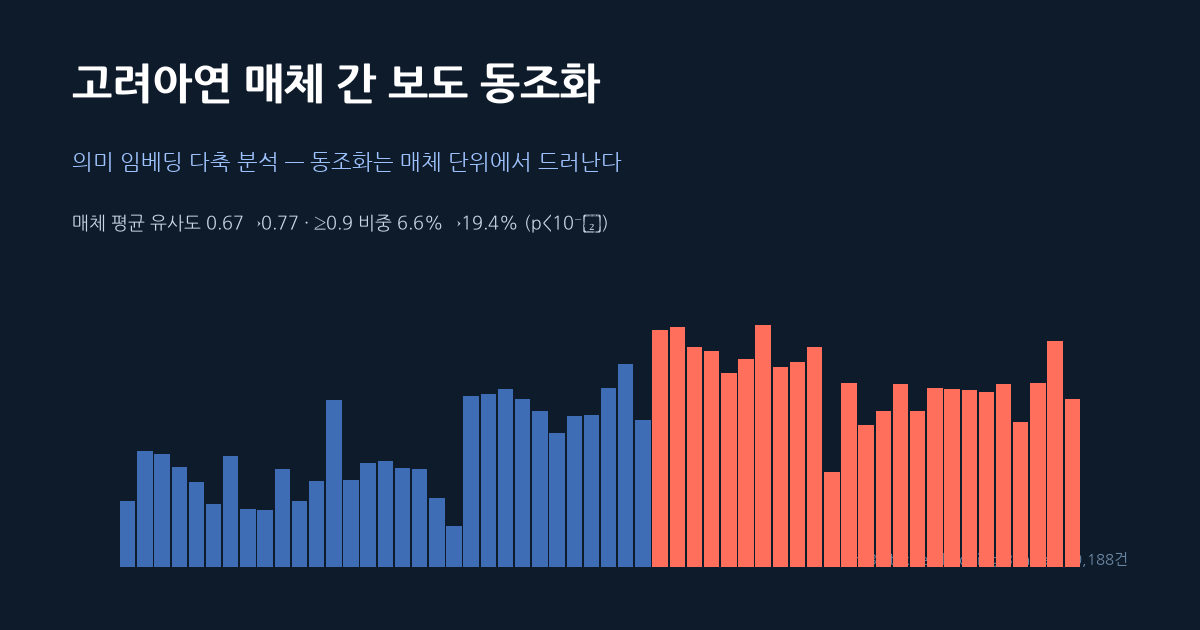
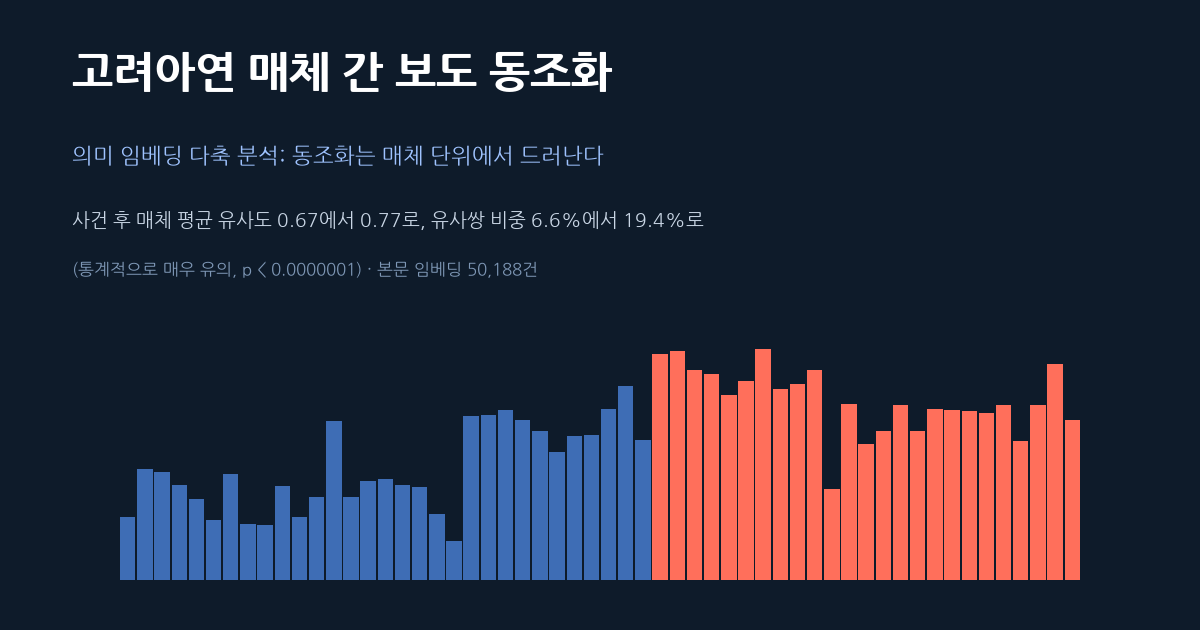
썸네일 수정: 폰트 미지원 특수기호(→·≥·위첨자) 제거, 캡션 겹침 해소

diff --git a/_l.html b/_l.html
@@ -1,0 +1,245 @@
+<!DOCTYPE html>
+<html lang="ko">
+<head>
+<meta charset="UTF-8">
+<meta name="viewport" content="width=device-width, initial-scale=1.0">
+<title>고려아연 매체 간 보도 동조화 — 의미 임베딩 다축 분석</title>
+<meta property="og:title" content="고려아연 매체 간 보도 동조화 — 의미 임베딩 다축 분석">
+<meta property="og:description" content="동조화는 매체 단위에서 드러난다 — 본문 임베딩·집계 단위·시간 창·지표의 다축 분석">
+<meta property="og:image" content="assets/thumbnail.png">
+<meta property="og:type" content="article">
+<link rel="preconnect" href="https://fonts.googleapis.com">
+<link href="https://fonts.googleapis.com/css2?family=Noto+Serif+KR:wght@400;600;700&family=Noto+Sans+KR:wght@400;500;700&display=swap" rel="stylesheet">
+<style>
+  :root{ --ink:#1a2230; --soft:#52606d; --line:#e2e7ee; --accent:#b3331f; --blue:#2c5da8; --bg:#ffffff; --panel:#f7f9fc; }
+  *{box-sizing:border-box}
+  body{ margin:0; background:var(--bg); color:var(--ink); font-family:"Noto Serif KR",serif; line-height:1.95; font-size:17px; }
+  .wrap{ max-width:860px; margin:0 auto; padding:0 22px 100px; }
+  header.hero{ margin:0 -22px 38px; } header.hero img{ width:100%; display:block; }
+  .titleblock{ padding:34px 0 10px; border-bottom:3px double var(--ink); margin-bottom:30px; }
+  h1.title{ font-size:30px; font-weight:700; line-height:1.45; margin:0 0 14px; letter-spacing:-.3px; }
+  .subtitle{ font-size:18px; color:var(--soft); font-weight:400; margin-bottom:18px; }
+  .meta{ font-family:"Noto Sans KR",sans-serif; font-size:13.5px; color:var(--soft); } .meta b{ color:var(--ink); }
+  .abstract{ background:var(--panel); border:1px solid var(--line); border-radius:10px; padding:22px 26px; margin:28px 0 10px; font-size:15.5px; line-height:1.9; }
+  .abstract h3{ font-family:"Noto Sans KR",sans-serif; margin:0 0 10px; font-size:14px; letter-spacing:2px; color:var(--accent); }
+  .abstract p{ text-indent:1.1em; margin:0; } .keywords{ font-family:"Noto Sans KR",sans-serif; font-size:13px; color:var(--soft); margin-top:14px; }
+  h2{ font-family:"Noto Sans KR",sans-serif; font-size:22px; font-weight:700; margin:54px 0 6px; padding-top:18px; border-top:1px solid var(--line); }
+  h3{ font-family:"Noto Sans KR",sans-serif; font-size:17.5px; font-weight:700; margin:32px 0 4px; color:#283447; }
+  p{ text-indent:1.2em; margin:14px 0; text-align:justify; word-break:keep-all; }
+  p.noindent,.abstract h3+p{ text-indent:0; } .lead{ color:var(--soft); }
+  ul,ol{ padding-left:1.4em; } li{ margin:6px 0; word-break:keep-all; }
+  figure{ margin:30px 0; text-align:center; } figure img{ max-width:100%; border:1px solid var(--line); border-radius:8px; }
+  figcaption{ font-family:"Noto Sans KR",sans-serif; font-size:13.5px; color:var(--soft); margin-top:10px; text-align:left; line-height:1.7; } figcaption b{ color:var(--ink); }
+  table{ border-collapse:collapse; width:100%; margin:22px 0; font-family:"Noto Sans KR",sans-serif; font-size:13.5px; }
+  caption{ font-family:"Noto Sans KR",sans-serif; font-size:13.5px; color:var(--soft); text-align:left; margin-bottom:8px; }
+  th,td{ border:1px solid var(--line); padding:8px 10px; text-align:center; } thead th{ background:#eef2f8; }
+  td.l,th.l{ text-align:left; } tbody tr:nth-child(even){ background:#fafbfd; }
+  .hl{ color:var(--accent); font-weight:700; } .ok{ color:#1d7a46; font-weight:700; }
+  .formula{ background:#f4f7fb; border-left:4px solid var(--blue); padding:10px 16px; margin:14px 0; font-family:"Noto Sans KR",sans-serif; font-size:15px; text-align:center; }
+  .callout{ background:#fff7f2; border-left:4px solid var(--accent); padding:14px 18px; border-radius:0 8px 8px 0; margin:22px 0; font-size:15px; } .callout p{ text-indent:0; margin:6px 0; }
+  .refs p{ text-indent:-1.4em; padding-left:1.4em; font-size:13.5px; line-height:1.75; margin:9px 0; font-family:"Noto Sans KR",sans-serif; text-align:left; word-break:break-word; }
+  footer{ margin-top:60px; padding-top:20px; border-top:1px solid var(--line); font-family:"Noto Sans KR",sans-serif; font-size:12.5px; color:var(--soft); }
+</style>
+</head>
+<body>
+<div class="wrap">
+
+<header class="hero"><img src="assets/thumbnail.png" alt="고려아연 매체 간 보도 동조화"></header>
+
+<div class="titleblock">
+  <h1 class="title">고려아연 매체 간 보도 동조화의 의미 임베딩 다축 분석<br>— 동조화는 매체 단위에서 드러난다</h1>
+  <div class="subtitle">집계 단위·시간 창·임베딩 방식을 가로지르는 다축 측정과 통계 검정</div>
+  <div class="meta"><b>데이터</b> 네이버 뉴스 고려아연 관련 본문 50,188건 · <b>임베딩</b> bge-m3(1,024차원) / text-embedding-3-large(3,072차원) · <b>핵심</b> 매체 단위 동조화(p&lt;10⁻⁷) &nbsp;|&nbsp; 2026.06</div>
+</div>
+
+<div class="abstract">
+  <h3>ABSTRACT</h3>
+  <p>본 연구는 하나의 사건이 다수 매체의 보도를 의미적으로 수렴시키는 현상(보도 동조화)을 정량 측정한다. 고려아연 경영권 분쟁 관련 기사 50,188건의 본문을 의미 임베딩으로 변환하고, 기사쌍의 코사인 유사도를 측정하였다. 핵심 발견은 동조화의 가시성이 <b>집계 단위에 따라 결정적으로 달라진다</b>는 점이다. 개별 기사 단위에서는 사건이 보도를 여러 각도로 분화시켜 동조화가 묻히지만, 각 매체의 보도를 centroid로 묶는 매체 단위에서는 동조화가 선명히 드러난다. 공개매수(2024-09-13) 이후 매체 간 평균 유사도는 0.67에서 0.77로, 매우 유사한(≥0.9) 매체쌍 비중은 6.6%에서 19.4%로 상승하였다(모두 p&lt;10⁻⁷). 이 결과는 네 가지 임베딩 방식에서 일관되게 재현되어 강건하다. 본 연구는 매체 간 보도 동조화가 매체 단위 집계에서 측정되어야 함을 실증한다.</p>
+  <div class="keywords"><b>주제어</b> &nbsp;매체 간 보도 동조화 · 의미 임베딩 · 코사인 유사도 · L2 정규화 · 매체 centroid · 포털뉴스</div>
+</div>
+
+<!-- 1 -->
+<h2>1. 서론</h2>
+<p>한국의 뉴스 이용 환경은 세계적으로 유례를 찾기 어려운 포털 집중 구조를 보인다. 한국언론진흥재단(2023)에 따르면 디지털 뉴스 이용자의 약 63%가 포털 검색으로 뉴스를 접한다. 반면 언론사 사이트를 직접 방문하는 비율은 6%에 불과하다. 네이버 한 곳의 포털뉴스 점유율은 92.1%에 달한다. 사실상 단일 플랫폼이 한국어 뉴스 유통의 전 과정을 매개하는 셈이다.</p>
+
+<p>이 구조에서 네이버에 제휴된 수백 개 매체는 동일한 이용자 풀을 두고 경쟁한다. 그 결과 매체 간 보도의 유사성은 뉴스 생태계의 구조적 특성을 규정하는 변수가 된다. 동일한 검색 화면에 노출되므로 공간적 조건이 단일하게 통제된다. 매체명·발행 시각·URL 등 메타데이터도 표준화되어 대규모 정량 분석이 용이하다. 이러한 조건은 매체 간 보도 동조화를 측정하기에 유리한 자연 실험적 환경을 제공한다.</p>
+
+<p>매체 간 보도 동조화의 측정은 학술적 관심을 넘어 사회적 시의성을 갖는다. 2026년 2월 신설된 네이버 「뉴스 제휴 심사 및 운영 평가 규정」이 그 배경이다. 이 규정은 자기 복제·중복 부당 전송 등을 정량 척도로 도입하였다. 특히 중복 부당 전송은 두 기사의 문장 유사도가 90% 이상인 비율을 측정한다. 그러나 이런 척도가 실제로 어떤 분포를 보이는지에 대한 학술적 기준선은 아직 정립되지 않았다.</p>
+
+<p>본 연구는 하나의 사건이 만드는 매체 간 보도 동조화를 의미 임베딩으로 측정한다. 분석 대상은 단기간 다수 매체의 집중 보도가 관찰된 고려아연 경영권 분쟁이다. 핵심 질문은 "동조화를 어느 단위에서 측정해야 드러나는가"이다. 본 연구는 측정 단위(기사·기자매체·매체)에 따라 동조화의 가시성이 갈린다는 점을 규명한다. 그리고 동조화가 매체 단위에서 통계적으로 분명히 나타남을 보인다.</p>
+
+<!-- 2 -->
+<h2>2. 선행연구와 한계</h2>
+<p class="lead noindent">본 연구는 ① 의미 임베딩 기반 뉴스 분석, ② 한국어 뉴스 텍스트 마이닝, ③ 포털뉴스 어뷰징·중복 보도 연구의 세 흐름이 교차하는 지점에 위치한다.</p>
+
+<h3>2.1 의미 임베딩 기반 뉴스 분석</h3>
+<p>뉴스 텍스트의 의미 유사성 측정은 사전학습 언어모델의 등장으로 새로운 단계에 진입하였다. Devlin et al.(2019)의 BERT는 문맥 의존적 단어 표현으로 NLP의 표준이 되었다. Reimers와 Gurevych(2019)는 Sentence-BERT로 문장 수준 유사도 측정의 효율적 표준을 마련하였다. Gao et al.(2021)은 대조 학습 기반 SimCSE로 문장 임베딩의 표현력을 끌어올렸다. 특히 Chen et al.(2024)은 팬데믹 초기 6천만 건의 뉴스로 국가 간 보도 동기성을 임베딩으로 측정하였다.</p>
+
+<h3>2.2 한국어 뉴스 텍스트 마이닝과 매체 비교</h3>
+<p>한국어 뉴스 텍스트 마이닝은 토픽 모델링과 네트워크 분석을 중심으로 발전해 왔다. 진설아 외(2013)는 동시출현단어분석으로 트위터 토픽 변화를 추적하였다. 정안용 외(2022)는 6,131건의 헤드라인으로 스마트도시 보도의 변화를 추적하였다. 최정균 외(2017)는 세월호 보도를 텍스트 마이닝으로 분석해 언론사 성향별 차이를 드러내었다. 그러나 이들 연구는 대체로 키워드·토픽 수준이거나 소수 일간지에 한정되어, 매체 단위의 대규모 의미 비교에는 이르지 못하였다.</p>
+
+<h3>2.3 포털뉴스 어뷰징·중복 보도 연구</h3>
+<p>매체 간 보도 동질화는 영문 전통에서 매체 간 의제 설정으로 다루어져 왔다(McCombs &amp; Shaw, 1972; Vargo et al., 2018). 한국에서는 이 동질화가 포털뉴스 어뷰징 연구로 발전하였다. 조영신 외(2015)는 매체 지위가 어뷰징 빈도에 미치는 영향을 실증하였다. 함민정·이상우(2018)는 실시간 검색어 기반 어뷰징을 사례로 분석하였다. 그러나 기존 연구는 단일 사례·정성적 관찰에 의존하여, 의미 임베딩 기반의 매체 단위 대규모 측정과는 거리가 있다.</p>
+
+<!-- 3 -->
+<h2>3. 연구문제와 가설</h2>
+<p>선행연구의 공백 위에서 본 연구는 다섯 가지 검정 가능한 가설을 설정한다. 핵심 질문은 "동조화를 어느 집계 단위에서 측정해야 드러나는가"이다. 종래의 서술적 관찰을 통계 검정으로 전환하는 것이 차별점이다. 각 가설은 명시적 귀무가설과 단측 대립가설로 조작화된다. 동일한 틀을 네 가지 임베딩 방식에 적용하여 결과의 강건성도 확인한다.</p>
+<div class="callout">
+<p><b>H1 (규모).</b> 사건 이후 일별 기사 수와 보도 매체 수가 유의하게 증가한다.</p>
+<p><b>H2 (매체 동조화).</b> 사건 이후 매체 간 보도 유사도(평균 및 ≥0.9 비중)가 유의하게 상승한다.</p>
+<p><b>H3 (집계 단위).</b> 동조화의 가시성은 집계 단위에 따라 달라지며, 매체 단위에서 가장 선명하다.</p>
+<p><b>H4 (강건성).</b> 동조화 결론은 네 가지 임베딩 방식에 무관하게 성립한다.</p>
+<p><b>H5 (발행 타이밍).</b> 사건 당일 일부 매체·기자는 기사를 단시간에 몰아 발행한다(rapid-fire).</p>
+</div>
+
+<!-- 4 -->
+<h2>4. 연구방법</h2>
+
+<h3>4.1 데이터</h3>
+<p>분석 데이터는 네이버 뉴스에서 수집한 고려아연 관련 기사의 본문이다. 데이터베이스에 적재된 관련 기사 50,188건을 분석 단위로 한다. 기간은 2023년 1월부터 2026년 1월까지로, 사건 전후를 충분히 포괄한다. 사건 원점은 MBK·영풍 연합의 공개매수 발표일(2024-09-13)이다. 각 기사는 발행 시각과 매체명을 메타데이터로 갖는다.</p>
+
+<h3>4.2 의미 임베딩과 L2 정규화</h3>
+<p>의미 임베딩은 텍스트를 그 의미를 담은 숫자 벡터로 바꾸는 기술이다. 비슷한 의미의 글은 비슷한 방향의 벡터로 변환된다. 그래서 두 벡터가 가리키는 방향이 얼마나 일치하는지로 의미 유사도를 잰다. 이 방향 일치도를 재는 표준 척도가 코사인 유사도다. 본 연구는 모든 유사도 계산에 앞서 임베딩을 <b>L2 정규화</b>한다.</p>
+
+<p>L2 정규화는 벡터의 "길이"를 1로 맞춰 크기를 버리고 방향만 남기는 절차다. 벡터의 L2 길이(노름)는 각 성분을 제곱해 더한 뒤 제곱근을 취한 값이다. L2 정규화는 벡터를 이 길이로 나누어 길이가 정확히 1인 단위벡터로 만든다. 예를 들어 벡터 (3, 4)의 길이는 √(9+16)=5이다. 이를 길이로 나누면 (0.6, 0.8)이 되며, 그 길이는 √(0.36+0.64)=1이 된다.</p>
+
+<div class="formula">
+  벡터 길이 &nbsp;‖v‖ = √(v₁² + v₂² + ⋯ + vₙ²) &nbsp;&nbsp;|&nbsp;&nbsp; 정규화 &nbsp;v̂ = v / ‖v‖ &nbsp;(길이 1)
+</div>
+
+<p>L2 정규화를 하는 이유는 코사인 유사도 계산이 간단해지기 때문이다. 코사인 유사도는 원래 두 벡터의 내적을 각 벡터의 길이 곱으로 나눈 값이다. 그런데 두 벡터를 미리 정규화하면 길이가 모두 1이 되어 분모가 1이 된다. 따라서 코사인 유사도가 곧 두 단위벡터의 내적과 같아진다. 즉 나눗셈이 사라지고 곱셈과 덧셈만으로 유사도가 계산된다.</p>
+
+<div class="formula">
+  cos(a, b) = (a · b) / (‖a‖ · ‖b‖) &nbsp;&nbsp;→&nbsp;&nbsp; 정규화 후 &nbsp;cos(â, b̂) = â · b̂ &nbsp;(분모 = 1)
+</div>
+
+<p>기하학적으로 L2 정규화는 모든 벡터를 반지름 1인 구의 표면 위 점으로 옮기는 것이다. 그 구 위에서 두 점이 같은 방향을 가리킬수록 코사인이 1에 가까워진다. 이렇게 하면 글의 길이나 강도 같은 크기 차이는 무시되고 의미 방향만 비교된다. 긴 기사든 짧은 기사든 공정하게 비교되는 것이다. 또한 수만 건을 한 번만 정규화해 두면, 이후 모든 쌍의 유사도가 행렬 곱 한 번으로 계산되어 매우 빠르다.</p>
+
+<p>매체 단위 분석에서는 정규화를 두 단계로 적용한다. 먼저 각 기사의 임베딩을 단위벡터로 정규화한다. 다음으로 한 매체에 속한 기사 벡터들을 평균하여 그 매체의 centroid를 만든다. 이 평균 벡터를 다시 한 번 L2 정규화하여 길이를 1로 맞춘다. 그래야 매체 간 centroid 비교도 동일하게 방향만으로 이루어진다.</p>
+
+<h3>4.3 네 가지 임베딩 방식</h3>
+<p>결과의 강건성을 위해 네 가지 임베딩 방식을 같은 기사에 적용한다. 임베딩 모델은 bge-m3(1,024차원)와 text-embedding-3-large(3,072차원) 두 가지다. 입력 텍스트는 제목+본문과 명사 TF-IDF 묶음 두 가지다. 후자는 형태소 분석으로 명사를 추출하고 TF-IDF가 0.05 이상인 명사만 남겨 임베딩한다. 두 모델과 두 입력을 곱하면 네 가지 방식이 되며, 모두 동일한 결론을 주는지 본다.</p>
+
+<h3>4.4 집계 단위와 centroid</h3>
+<p>본 연구의 핵심 설계는 유사도를 세 가지 집계 단위에서 측정하는 것이다. 첫째는 기사 단위로, 개별 기사 벡터 쌍의 코사인을 본다. 둘째는 기자-매체 단위로, 같은 매체의 같은 기자가 쓴 기사를 centroid로 묶는다. 셋째는 매체 단위로, 한 매체의 모든 기사를 centroid로 묶어 매체 간 코사인을 본다. 각 단위에서 그 단위에 속한 기사를 평균·정규화한 centroid 사이의 유사도를 측정한다.</p>
+
+<h3>4.5 시간 창과 지표</h3>
+<p>시간은 사건일에 정렬하여 1·5·10·20일의 네 가지 창으로 끊는다. 한 창 안의 기사·단위를 모아 그 창의 유사도 분포를 구한다. 창을 넓힐수록 일별 잡음이 줄어 동조화 추세가 뚜렷해진다. 각 창·단위에서 네 가지 지표를 산출한다. 곧 단위 수, 평균 유사도, 그리고 임계(0.90·0.95·0.99) 이상 쌍의 절대 빈도와 상대 빈도(%)다.</p>
+
+<h3>4.6 통계 검정</h3>
+<p>매체 단위 동조화 시계열에 네 가지 통계 검정을 적용한다. 첫째, 사건 전후 매체 간 유사도를 Mann–Whitney 검정으로 비교한다. 둘째, 보도 매체 수의 사후 급증을 음이항 회귀로 검정한다. 셋째, CUSUM으로 동조화 상승의 시작 시점을 검출한다. 넷째, 평소 평균에 3σ를 더한 관리도 상한으로 비정상 구간을 식별한다.</p>
+
+<h3>4.7 발행 타이밍 버스트</h3>
+<p>거시적 동조화의 미시적 메커니즘으로 발행 타이밍을 분석한다. 사건 당일의 분 단위 발행 시각과 기자명을 가진 데이터를 사용한다. 매체·기자별로 60분 내 최대 발행 수(peak60)를 산출한다. 이를 무작위 발행 영모형으로 검정하여 의도적 몰아쓰기(rapid-fire)를 식별한다. 같은 무작위 영모형 논리가 거시와 미시 분석에 일관되게 적용된다.</p>
+
+<!-- 5 -->
+<h2>5. 연구결과</h2>
+
+<h3>5.1 집계 단위별 동조화 — 매체 단위에서 드러난다</h3>
+<p>같은 데이터라도 집계 단위에 따라 동조화의 가시성이 완전히 갈린다. 기사 단위에서는 평균이 미미하게 오르고 ≥0.9 쌍 비중은 오히려 줄어든다. 기자-매체 단위에서는 평균이 뚜렷이 상승한다. 매체 단위에서는 평균이 0.67에서 0.77로, ≥0.9 비중이 6.6%에서 19.4%로 폭증한다. 단위가 거칠어질수록 동조화 신호가 강해지는 일관된 사다리가 나타난다.</p>
+
+<figure>
+  <img src="assets/syn_relthr.png" alt="임계 이상 상대빈도 4임베딩×3단위">
+  <figcaption><b>그림 1.</b> 임계(0.90·0.95·0.99) 이상 기사쌍 <b>상대빈도(%)</b> — 행 4임베딩 × 열 3단위(기사·기자매체·매체), 20일 창. 매체 단위(맨 오른쪽)에서 공개매수일(점선) 직후 ≥0.90 비중이 0%대에서 급증한다. 기사 단위(왼쪽)는 노이즈에 묻혀 신호가 보이지 않는다.</figcaption>
+</figure>
+
+<p>매체 단위에서 동조화가 드러나는 이유는 분화와 수렴의 분리에 있다. 사건은 공개매수·금융·법적·정치 등 여러 각도로 보도를 분화시킨다. 그래서 개별 기사 쌍은 서로 닮지 않아 기사 단위에서 신호가 희석된다. 그러나 각 매체의 보도를 centroid로 평균하면 그 매체의 전반적 방향이 남는다. 사건 후 모든 매체의 방향이 같은 사건으로 수렴하므로 매체 간 유사도가 폭증한다.</p>
+
+<figure>
+  <img src="assets/syn_mean.png" alt="구간 평균유사도 4임베딩×3단위">
+  <figcaption><b>그림 2.</b> 구간 평균 코사인 유사도(20일 창). 매체 단위(오른쪽 열)에서 사건 후 평균이 약 0.60에서 0.78로 한 단계 상승하며, 네 임베딩 모두 동일한 패턴을 보인다.</figcaption>
+</figure>
+
+<table>
+  <caption><b>표 1.</b> 집계 단위별 사전→사후 동조화 (20일 창, bge-m3·제목+본문 기준)</caption>
+  <thead><tr><th class="l">단위</th><th>평균 유사도</th><th>≥0.9 비중</th><th>판정</th></tr></thead>
+  <tbody>
+    <tr><td class="l">기사</td><td>0.571 → 0.588 (Δ+0.02)</td><td>4.5% → 2.3% (Δ−2.2%p)</td><td>묻힘</td></tr>
+    <tr><td class="l">기자-매체</td><td>0.612 → 0.671 (Δ+0.06)</td><td>4.0% → 4.2% (≈)</td><td>중간</td></tr>
+    <tr><td class="l hl">매체</td><td><b>0.667 → 0.771</b> (Δ+0.10)</td><td><b>6.6% → 19.4%</b> (Δ+12.8%p)</td><td class="hl">동조화 ✓</td></tr>
+  </tbody>
+</table>
+
+<h3>5.2 통계 검정 결과</h3>
+<p>매체 단위 동조화의 사후 상승은 통계적으로 압도적으로 유의하다. 네 임베딩 모두에서 사후 평균 유사도가 유의하게 높았다(p&lt;10⁻⁷). 매우 유사한 ≥0.9 매체쌍의 비중도 모두 유의하게 상승하였다(p&lt;10⁻⁷). 보도 매체 수는 평균 76개에서 219개로 늘었다(음이항 회귀, p&lt;10⁻⁶¹). 즉 동조화는 더 많은 매체가 같은 방향으로 합류하는 형태로 진행된다.</p>
+
+<table>
+  <caption><b>표 2.</b> 매체 단위 동조화 사전→사후 검정 (20일 창, 4임베딩)</caption>
+  <thead><tr><th class="l">임베딩</th><th>평균 유사도 (p)</th><th>≥0.9 비중 (p)</th></tr></thead>
+  <tbody>
+    <tr><td class="l">① bge-m3·제목본문</td><td>0.667→0.771 (2×10⁻⁷)</td><td>6.6%→19.4% (7×10⁻⁸)</td></tr>
+    <tr><td class="l">② bge-m3·명사</td><td>0.633→0.745 (7×10⁻⁸)</td><td>3.5%→13.1% (1×10⁻⁷)</td></tr>
+    <tr><td class="l">③ 3large·제목본문</td><td>0.596→0.713 (2×10⁻⁷)</td><td>2.6%→9.9% (9×10⁻⁸)</td></tr>
+    <tr><td class="l">④ 3large·명사</td><td>0.560→0.691 (5×10⁻⁸)</td><td>1.2%→7.1% (1×10⁻⁷)</td></tr>
+    <tr><td class="l" colspan="3">보도 매체 수: 76 → 219 (음이항 회귀, p&lt;10⁻⁶¹) · 모든 검정 단측 Mann–Whitney</td></tr>
+  </tbody>
+</table>
+
+<figure>
+  <img src="assets/media_control.png" alt="매체 동조화 관리도와 CUSUM">
+  <figcaption><b>그림 3.</b> 매체 단위 동조화 관리도(위)와 CUSUM(아래), 20일 창·bge-m3 제목+본문. 위 그림에서 사후(빨강) 평균 유사도가 평소(μ=0.667) 위로 일관되게 상승한다. 아래 CUSUM은 평소 대비 누적 이탈을 합산하며, 사건 직전인 2024년 중반에 한계선을 넘어 동조화 상승의 시작을 검출한다.</figcaption>
+</figure>
+
+<h3>5.3 시간 창 비교</h3>
+<p>시간 창을 넓힐수록 동조화 추세가 노이즈에서 분리되어 뚜렷해진다. 1일 창에서는 하루치 기사가 적어 추정이 크게 출렁인다. 5일·10일 창으로 묶으면 변동이 줄고 사건 후 상승이 보이기 시작한다. 20일 창에서는 사후 평균이 사전 기준선을 표준오차 폭의 여러 배로 넘어선다. 곧 동조화는 묶음 단위에서 통계적으로 분명해지며 일별 분석으로는 가려진다.</p>
+
+<figure>
+  <img src="assets/fan_windows.png" alt="시간 창별 평균유사도 팬차트">
+  <figcaption><b>그림 4.</b> 구간 평균 유사도 ± 표준오차 팬차트 — 행 4임베딩 × 열 4창(1·5·10·20일, 사건일 정렬). 왼쪽(1일)은 노이즈가 크고, 오른쪽(20일)으로 갈수록 밴드가 좁아져 사후 상승이 또렷해진다.</figcaption>
+</figure>
+
+<h3>5.4 임베딩 강건성</h3>
+<p>네 임베딩 방식은 동조화의 방향을 동일하게 보고하며 차이는 기준선뿐이다. 절대 유사도 수준은 모델과 입력에 따라 다르게 나타난다. text-embedding-3-large에 명사 TF-IDF를 쓴 방식이 기준선이 가장 낮다. 기준선이 낮을수록 사건 전후의 이동 폭은 가장 크게 드러난다. 그러나 어떤 방식을 쓰든 매체 단위에서 동조화가 확인되어 결론은 강건하다.</p>
+
+<figure>
+  <img src="assets/syn_compare4.png" alt="4임베딩 일별 평균 코사인 비교">
+  <figcaption><b>그림 5.</b> 네 임베딩 방식의 일별 평균 코사인(기사 단위) 비교. 절대 수준은 다르나 사후 상승 방향은 공통이며, text-embedding-3-large·명사 방식이 변별력이 가장 크다.</figcaption>
+</figure>
+
+<h3>5.5 발행 타이밍 버스트</h3>
+<p>거시적 동조화의 미시적 메커니즘은 사건 당일의 발행 타이밍에서 드러난다. 공개매수 당일 매체는 보도량을 채우는 물량형과 짧게 몰아치는 버스트형으로 갈렸다. 한국경제는 16건을 하루에 고르게 발행한 물량형이다. 반면 아시아경제·빅데이터뉴스는 7~8건 중 5건을 60분 안에 발행하였다(영모형 p=0.001). 기자 단위에서는 김준형·서효림 기자의 명백한 rapid-fire가 통계적으로 확인되었다.</p>
+
+<figure>
+  <img src="assets/burst_kz.png" alt="발행 타이밍 버스트와 기자 rapid-fire">
+  <figcaption><b>그림 6.</b> (왼쪽) 매체별 총 기사 수와 60분 최대 발행 수 — 오른쪽 아래는 물량형, 왼쪽 위는 버스트형이며 주황색은 무작위 영모형 대비 유의하다. (오른쪽) 기자별 rapid-fire — 김준형(7건 중 5건/60분, p=0.0003)·서효림(p=0.005) 기자가 통계적으로 유의하다.</figcaption>
+</figure>
+
+<!-- 6 -->
+<h2>6. 결론</h2>
+<p>본 연구는 고려아연 사건이 만든 매체 간 보도 동조화를 의미 임베딩으로 검정하였다. 핵심 발견은 동조화 측정에서 집계 단위가 결정적이라는 점이다. 개별 기사 쌍은 사건의 다각화 때문에 동조화를 가린다. 반면 매체 단위 centroid는 그 다각화를 평균으로 흡수해 수렴을 드러낸다. 그 결과 매체 단위에서 사후 동조화가 압도적으로 유의하게 나타났다(p&lt;10⁻⁷).</p>
+
+<p>이 결과는 매체 간 보도 동조화가 매체 단위에서 측정되어야 함을 실증한다. 사건 후 매체 간 평균 유사도는 0.67에서 0.77로, ≥0.9 비중은 6.6%에서 19.4%로 상승하였다. 같은 기간 보도 매체 수도 76개에서 219개로 늘었다. 곧 동조화는 더 많은 매체가 같은 방향으로 합류하는 형태로 진행된다. 네 임베딩 방식에서 일관되게 재현되어 결론은 강건하다.</p>
+
+<p>방법론적으로는 집계 단위와 시간 분해가 동조화 측정의 두 관건이다. 매체 centroid는 분화를 흡수하지만, 전 기간을 한 벡터로 섞으면 시간이 뭉개진다. 따라서 시간 창으로 끊어 비이슈 기준선과 이슈 동조를 분리해야 한다. 본 연구는 이 두 장치로 종래 가려졌던 동조화를 드러냈다. 사건 당일의 발행 타이밍 분석은 그 거시적 동조화의 미시적 메커니즘을 보였다.</p>
+
+<p>본 연구는 단일 사례에 한정되어 일반화에는 추가 사례가 필요하다. 또한 매체 단위 동조화의 인과를 직접 규명하지는 않았다. 향후 본문 문장 단위 중복률을 결합하면 네이버 규정 척도와 직접 연결할 수 있다. 다양한 사건 구조에 같은 틀을 적용하면 동조화의 일반 법칙을 탐색할 수 있다. 본 연구가 제시한 매체 단위·시간 분해 측정틀이 그 출발점이 될 것이다.</p>
+
+<!-- 7 -->
+<h2>7. 참고문헌</h2>
+<div class="refs">
+<p>유재광·오경수 (2012). 신문의 뉴스프레임과 정치인 발언 보도태도 연구: 미디어법 이슈를 중심으로. 정치커뮤니케이션 연구, 26, 73–113.</p>
+<p>정안용·박진영·남윤재 (2022). 텍스트마이닝과 네트워크분석을 활용한 스마트도시 언론보도 분석. Journal of The Korean Data Analysis Society, 24(4), 1563–1582.</p>
+<p>조영신·유수정·한영주 (2015). 포털 기사 공급 형태 및 매체 지위와 어뷰징과의 관계에 대한 탐색적 연구: '네이버'를 중심으로. 한국언론학보, 59(6), 314–338.</p>
+<p>진설아·허고은·정유경·송민 (2013). 트위터 데이터를 이용한 네트워크 기반 토픽 변화 추적 연구. 정보관리학회지, 30(1), 285–302.</p>
+<p>최정균·진서훈·최종후 (2017). 텍스트 마이닝 기법을 이용한 언론사별 보도 변화 양상 탐구. Journal of The Korean Data Analysis Society, 19(5), 2509–2522.</p>
+<p>한국언론진흥재단 (2023). 2023 언론수용자 조사. 한국언론진흥재단.</p>
+<p>함민정·이상우 (2018). 온라인 뉴스에서 발생하는 어뷰징 행태 분석: 최시원 불독 관련 기사들을 중심으로. 정보사회와 미디어, 19(2), 91–120.</p>
+<p>Chen, X., Hale, S. A., Jurgens, D., Samory, M., Zuckerman, E., &amp; Grabowicz, P. A. (2024). Global news synchrony and diversity during the start of the COVID-19 pandemic. In <i>Proceedings of the ACM Web Conference 2024 (WWW '24)</i> (pp. 2639–2650). ACM.</p>
+<p>Devlin, J., Chang, M.-W., Lee, K., &amp; Toutanova, K. (2019). BERT: Pre-training of deep bidirectional transformers for language understanding. In <i>NAACL-HLT</i> (pp. 4171–4186).</p>
+<p>Gao, T., Yao, X., &amp; Chen, D. (2021). SimCSE: Simple contrastive learning of sentence embeddings. In <i>EMNLP</i> (pp. 6894–6910).</p>
+<p>McCombs, M. E., &amp; Shaw, D. L. (1972). The agenda-setting function of mass media. <i>Public Opinion Quarterly, 36</i>(2), 176–187.</p>
+<p>Reimers, N., &amp; Gurevych, I. (2019). Sentence-BERT: Sentence embeddings using Siamese BERT-networks. In <i>EMNLP-IJCNLP</i> (pp. 3982–3992).</p>
+<p>Vargo, C. J., Guo, L., &amp; Amazeen, M. A. (2018). The agenda-setting power of fake news. <i>New Media &amp; Society, 20</i>(5), 2028–2049.</p>
+</div>
+
+<footer>
+  데이터·코드: <a href="indicators_full_koreazinc.csv">동조화 지표 큐브(4임베딩×4창×3단위)</a> ·
+  <a href="mediatests_koreazinc.csv">매체 동조화 검정 결과</a> ·
+  <a href="bodies_20240913_koreazinc.csv">9/13 발행시각·기자 데이터</a> ·
+  <a href="code_burst.py">버스트 분석 코드</a><br>
+  임베딩: bge-m3(Middleton) · text-embedding-3-large(OpenAI) · 유사도: L2 정규화 후 코사인 · 2026.06
+</footer>
+
+</div>
+</body>
+</html>